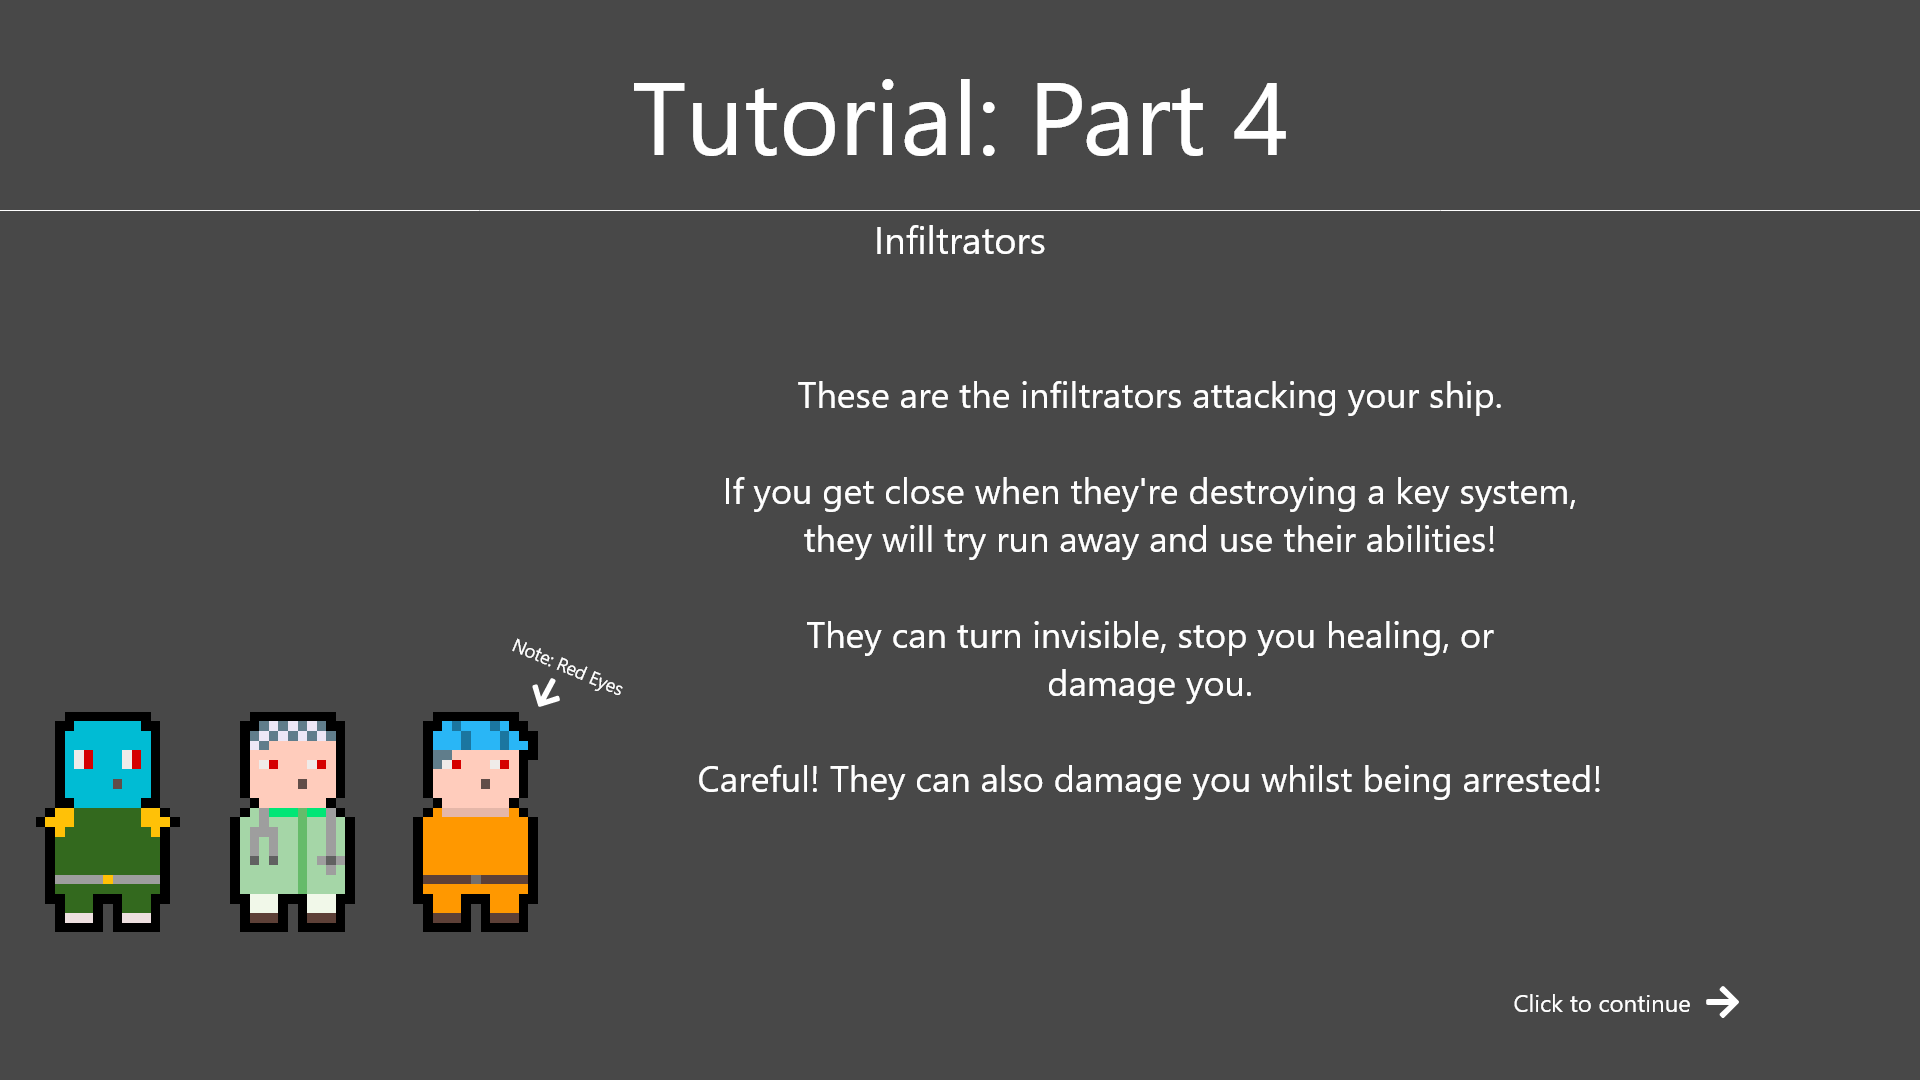
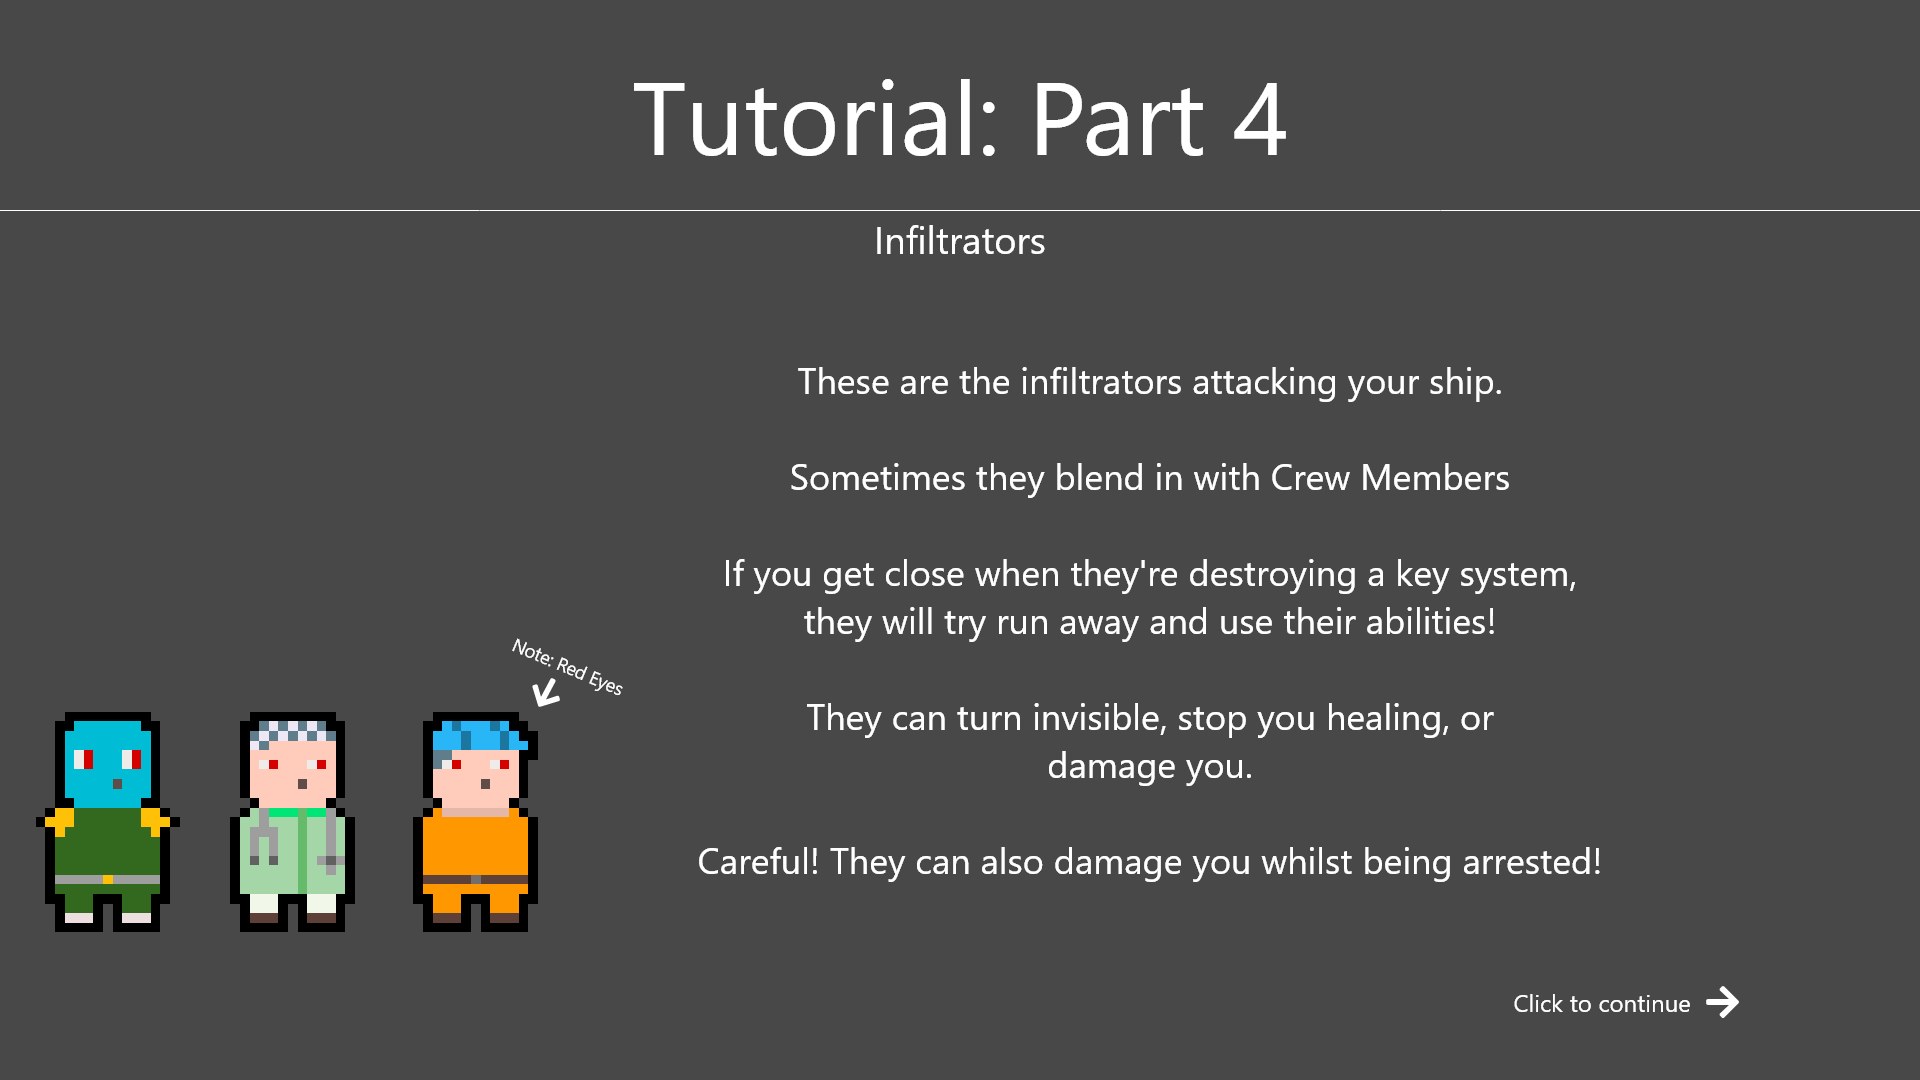
Disabled full screen Adjusted tutorial screens Demo mode half works Fixed infiltrators waiting for 300000 seconds

diff --git a/core/src/com/mygdx/auber/Screens/PlayScreen.java b/core/src/com/mygdx/auber/Screens/PlayScreen.java
@@ -8,6 +8,7 @@ import com.badlogic.gdx.graphics.Texture;
 import com.badlogic.gdx.graphics.g2d.Sprite;
 import com.badlogic.gdx.graphics.g2d.SpriteBatch;
 import com.badlogic.gdx.graphics.glutils.ShapeRenderer;
+import com.badlogic.gdx.maps.Map;
 import com.badlogic.gdx.maps.tiled.TiledMap;
 import com.badlogic.gdx.maps.tiled.TiledMapTileLayer;
 import com.badlogic.gdx.maps.tiled.TmxMapLoader;
@@ -40,8 +41,11 @@ public class PlayScreen implements Screen {
     public static final int numberOfCrew = 120;
     public static final int maxIncorrectArrests = 3;
 
+    private static boolean demo;
+
     public PlayScreen(Auber game, boolean demo){
         this.game = game;
+        this.demo = demo;
 
         camera = new OrthographicCamera();
         viewport = new ExtendViewport(Auber.VirtualWidth, Auber.VirtualHeight, camera);
@@ -69,9 +73,13 @@ public class PlayScreen implements Screen {
             NPCCreator.createInfiltrator(Infiltrator.easySprites.random(), MapGraph.getRandomNode(), graphCreator.mapGraph);
         } //Creates numberOfInfiltrators infiltrators, gives them a random hard or easy sprite
 
+        if(demo)
+        {
+            NPCCreator.createCrew(new Sprite(new Texture("AuberStand.png")), MapGraph.getRandomNode(), graphCreator.mapGraph);
+        }
+
         for(int i = 0; i < numberOfCrew; i++)
         {
-            //System.out.println("Crewmember created!");
             NPCCreator.createCrew(CrewMembers.selectSprite(), MapGraph.getRandomNode(), graphCreator.mapGraph);
         } //Creates numberOfCrew crewmembers, gives them a random sprite
 
@@ -149,7 +157,15 @@ public class PlayScreen implements Screen {
         Gdx.gl.glClearColor(0.09f, 0.09f, 0.09f, 1);
         Gdx.gl.glClear(GL20.GL_COLOR_BUFFER_BIT);// Clears the screen and sets it to the colour light blue or whatever colour it is
 
-        camera.position.set(player.getX() + player.getWidth()/2,player.getY() + player.getHeight()/2,0); //Sets camera to centre of player position
+        if(!demo)
+        {
+            camera.position.set(player.getX() + player.getWidth()/2,player.getY() + player.getHeight()/2,0); //Sets camera to centre of player position
+        }
+        else{
+            CrewMembers crew = NPCCreator.crew.get(0);
+            camera.position.set(crew.getX() + crew.getWidth()/2, crew.getY() + crew.getHeight()/2, 0);
+        }
+
         game.batch.setProjectionMatrix(camera.combined); //Ensures everything is rendered properly, only renders things in viewport
         shapeRenderer.setProjectionMatrix(camera.combined); //Ensures the shape renderer renders thing properly
 
@@ -163,8 +179,12 @@ public class PlayScreen implements Screen {
         renderer.renderTileLayer((TiledMapTileLayer) map.getLayers().get(3));
 
         NPC.render(renderer.getBatch()); //Renders all NPCs
-        player.draw(renderer.getBatch()); //Renders the player
-        player.drawArrow(renderer.getBatch()); //Renders arrows towards key systems
+
+        if(!demo)
+        {
+            player.draw(renderer.getBatch()); //Renders the player
+            player.drawArrow(renderer.getBatch()); //Renders arrows towards key systems
+        }
 
         update(delta); //Updates the game camera and NPCs
         hud.stage.draw(); //Draws the HUD on the game

diff --git a/core/src/com/mygdx/auber/Screens/TutorialScreen.java b/core/src/com/mygdx/auber/Screens/TutorialScreen.java
@@ -42,6 +42,7 @@ public class TutorialScreen implements Screen{
         images.add(new Image(new Texture("Tutorial3.png")));
         images.add(new Image(new Texture("Tutorial4.png")));
         images.add(new Image(new Texture("Tutorial5.png")));
+        images.add(new Image(new Texture("Tutorial6.png")));
 
         final Table tutTable = new Table();//Table for adding each image to so that it can be displayed
         stage.addActor(tutTable);
@@ -50,7 +51,7 @@ public class TutorialScreen implements Screen{
         stage.addListener(new ClickListener(){
             @Override
             public void clicked(InputEvent event, float x, float y) {
-                if (i == 4){//Change i to number of tutorial images - 1
+                if (i == images.size - 1){//Change i to number of tutorial images - 1
                     game.setScreen(new MainMenuScreen(game));//Change screen to main menu if on the final tutorial image
                 }else {
 

diff --git a/core/src/com/mygdx/auber/entities/Infiltrator.java b/core/src/com/mygdx/auber/entities/Infiltrator.java
@@ -71,6 +71,7 @@ public class Infiltrator extends NPC{
 
         //this.collision.checkForCollision(this, layer, this.velocity, collision);
 
+        System.out.println(elapsedTime + " - " + timeToWait);
         if((this.elapsedTime >= timeToWait) && this.pathQueue.isEmpty()) {
             this.elapsedTime = 0;
             reachDestination();
@@ -108,7 +109,7 @@ public class Infiltrator extends NPC{
             {
                 this.isDestroying = true;
                 keySystem.startDestroy();
-                timeToWait = KeySystem.destructionTime;
+                timeToWait = KeySystem.destructionTime / 1000;
                 return;
             }
         } //If no queue, and the last node in queue was a key systems node, start destroying

diff --git a/core/src/com/mygdx/auber/entities/Player.java b/core/src/com/mygdx/auber/entities/Player.java
@@ -58,6 +58,10 @@ public class Player extends Sprite implements InputProcessor {
         this.arrow = new Sprite(new Texture("arrow.png"));
         arrow.setOrigin(arrow.getWidth()/2, 0);
 
+        if(demo)
+        {
+            this.setAlpha(0.01f);
+        }
         health = 100f;
     }
 
@@ -147,6 +151,11 @@ public class Player extends Sprite implements InputProcessor {
      * Used to update the player, move in direction, change scale, and check for collision
      */
     public void update(float delta) {
+        if(demo)
+        {
+            heal();
+        }
+
         velocity.x = 0; velocity.y = 0;
         Player.x = getX(); Player.y = getY(); //Set the velocity to 0 and set the current x/y to x and y
 

diff --git a/desktop/src/com/mygdx/auber/desktop/DesktopLauncher.java b/desktop/src/com/mygdx/auber/desktop/DesktopLauncher.java
@@ -10,7 +10,6 @@ public class DesktopLauncher {
 		config.foregroundFPS = 144;
 		config.width = 1920;
 		config.height = 1080;
-		config.fullscreen = true;
 		new LwjglApplication(new Auber(), config);
 	}
 }
